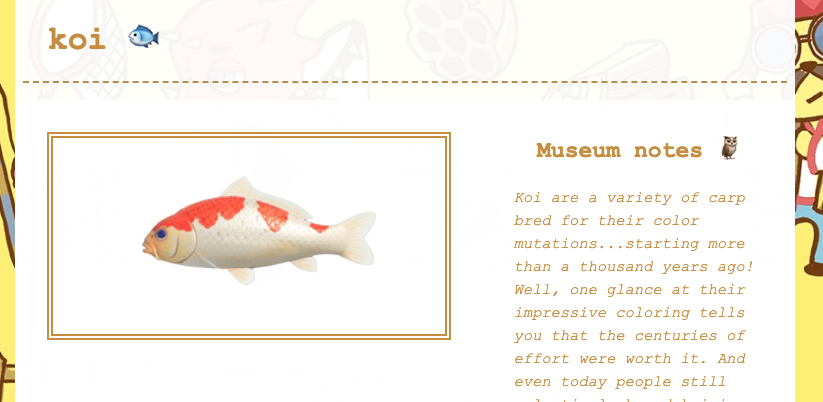
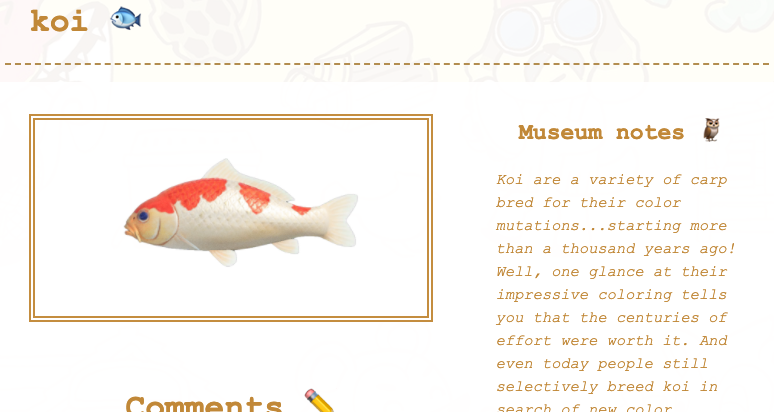
Better home page images

diff --git a/public/css/main.css b/public/css/main.css
@@ -25,6 +25,11 @@ img {
   border: 6px double #c48d3f; 
 }
 
+.home-frame {
+  border: 1px solid #444;
+  box-shadow: 4px 4px #bbb;
+}
+
 p {
   margin-bottom: 1.5em;
 }
